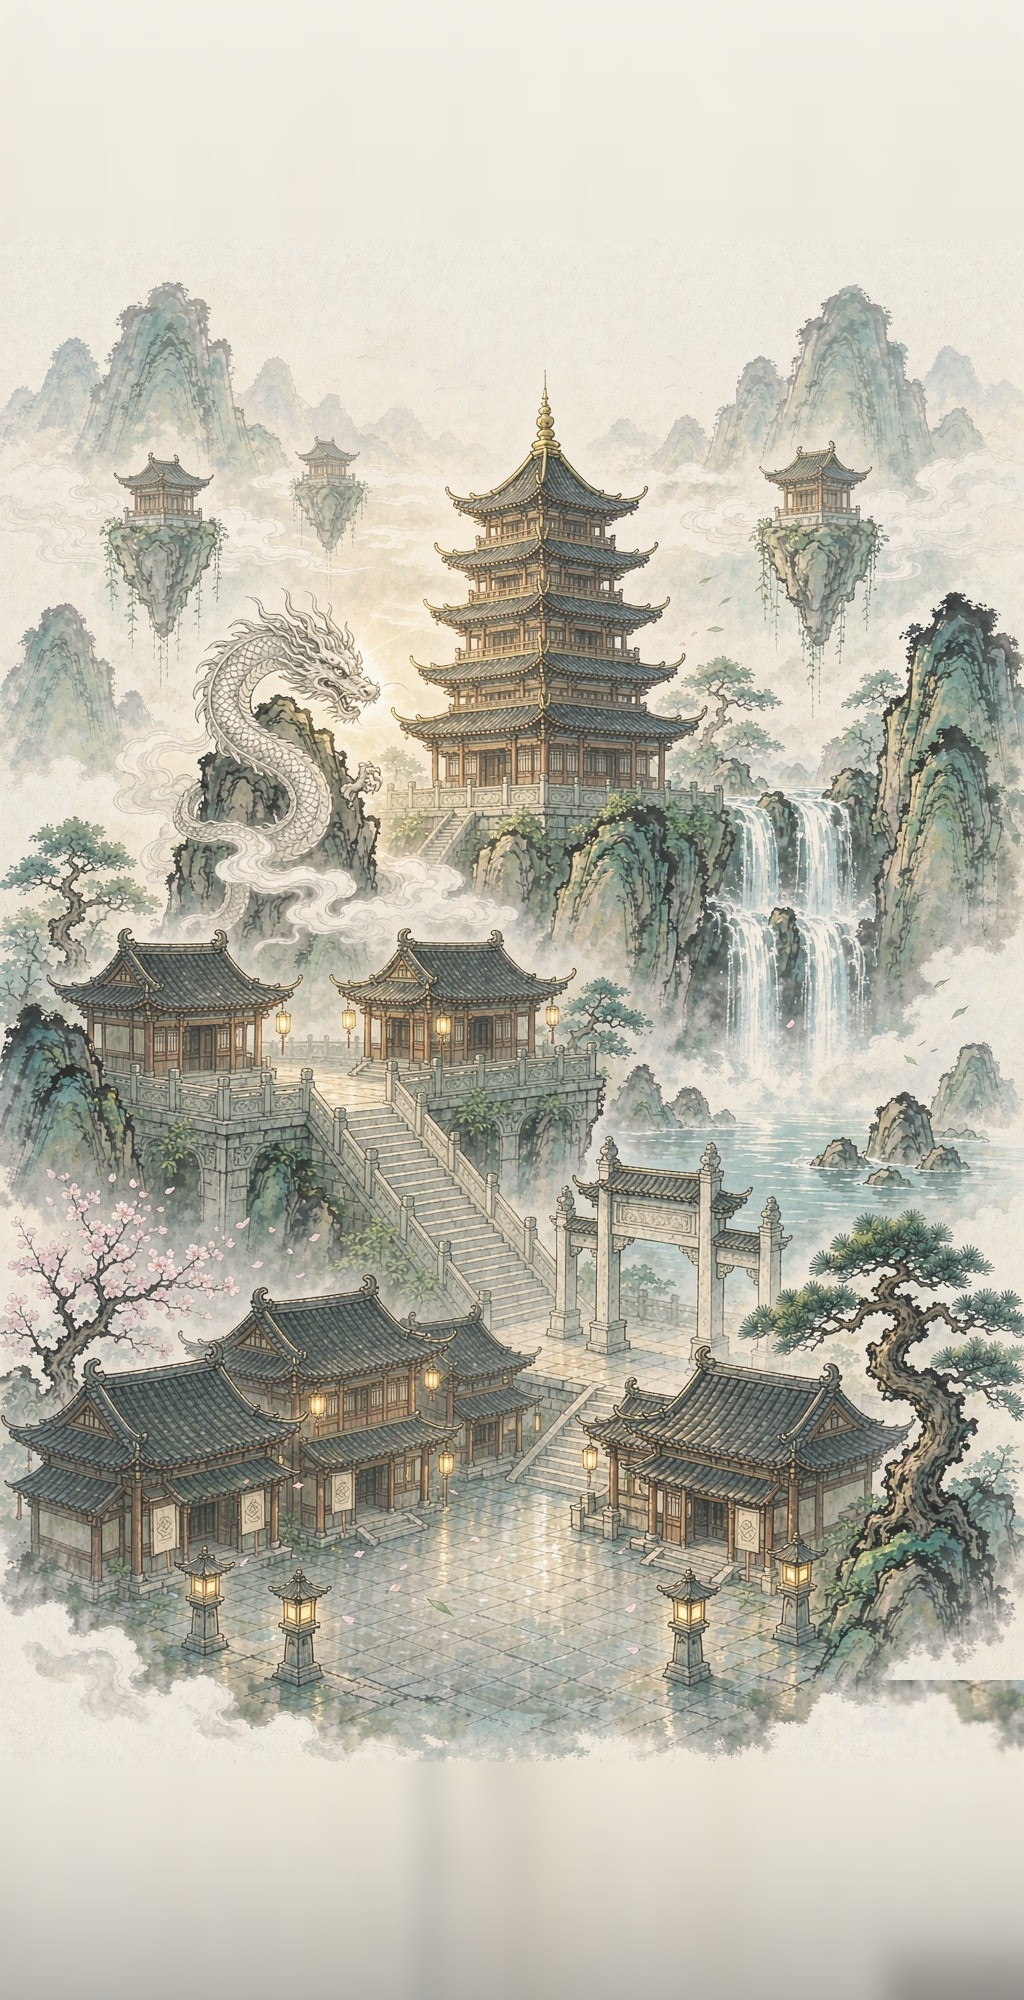
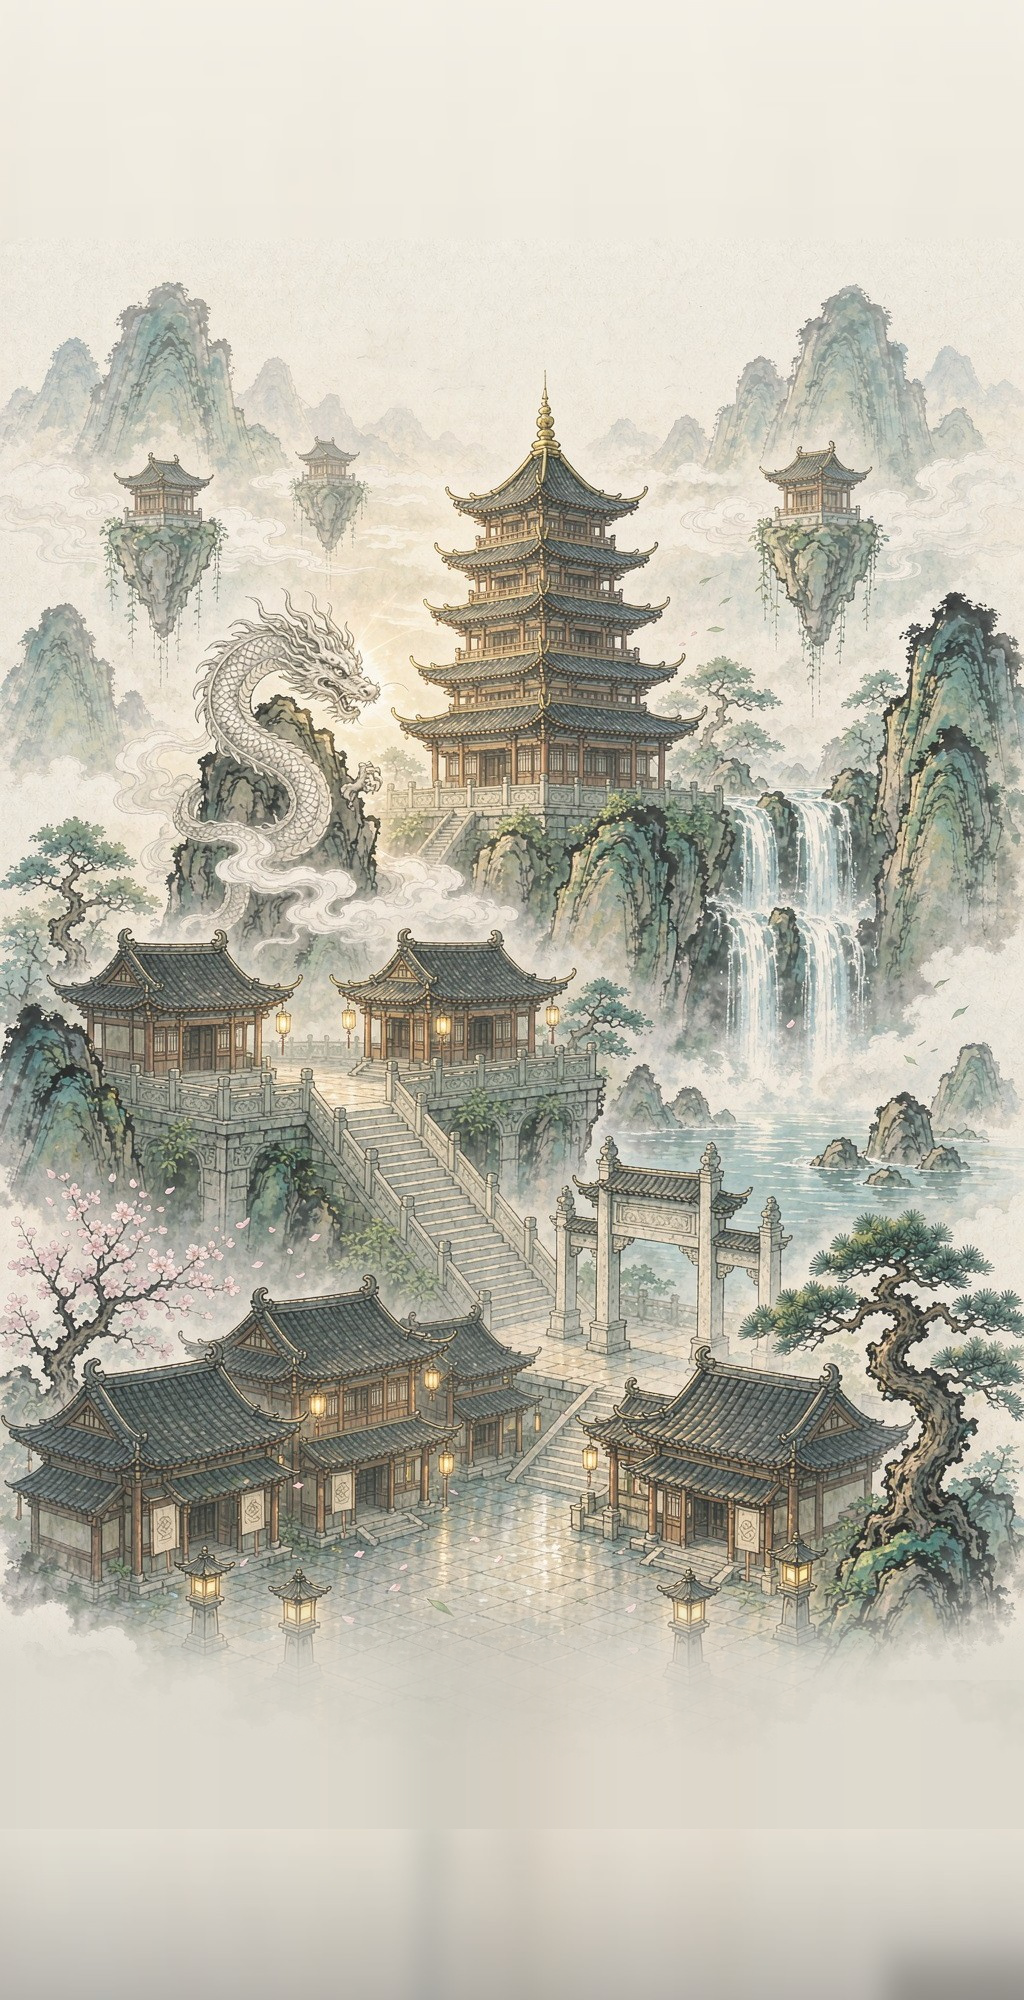
修复主城右下角背景断层
bg_ink.jpg 在 y≈1679 有一条贯穿全宽的水平硬边：上方是山石/地面的浅色雾化边缘，
下方直接接上做雾底时镜像出来的、更暗的画面，拼接处没有过渡。
游戏里看就是右下角（商店街、老树一带）出现直角断层，右侧山石处最明显。

修法（tools/fix_bg_seam.py，可重复执行）：
- 雾从接缝上方 110px 处开始涨，到接缝处已覆盖 92%，再往下 150px 完全成雾；
- 雾色取接缝下方 130~220px 的纯雾带，横向大半径模糊，只保留缓慢明暗起伏；
- 这样接缝以下的镜像重影一起被雾吃掉，不会出现交叉渐变那种对称重影。

实测接缝跳变像素占比 0.65 → 0.00（上下各 1px 均在 0.01 以内）。
背景图已重新导入；原图备份在 assets/city_ink/bg_ink.jpg.bak-seam。

顺带修掉 tools/auto_city_perf.sh 的安装静默失败：
adb install 的增量安装会先报错再回退，原来把输出丢掉、不校验版本号，
导致「验收时跑的其实是上一个包」（瀑布那次就因此误判）。现在装完会比对
APK 的 versionCode 与模拟器实装版本，不一致直接中止。

Changed region(s): [[0.0938, 0.806, 1.0, 0.899]]

diff --git a/tools/fix_bg_seam.py b/tools/fix_bg_seam.py
@@ -1,0 +1,83 @@
+#!/usr/bin/env python3
+"""主城背景图底部接缝修复。
+
+bg_ink.jpg 在 y≈1679 处有一条贯穿全宽的水平硬边：上方是山石/地面的浅色雾化边缘，
+下方接着一段更暗、带镜像重影的画面（做雾底时的镜像延展），两者直接拼接，
+在游戏里就是用户看到的「右下角断层」。
+
+做法：让雾从接缝上方一点点「涨上来」，把接缝和下方的镜像重影一起吃掉 ——
+不交叉混合（那会做出更怪的对称重影），而是按 y 归一化后整体溶进雾色。
+雾色取接缝下方 120px 处的纯雾带，横向大半径模糊，只保留缓慢明暗起伏。
+
+用法：
+  python3 tools/fix_bg_seam.py --dry    # 只输出 /tmp 预览
+  python3 tools/fix_bg_seam.py          # 写回原图（先备份 .bak-seam）
+"""
+import os
+import shutil
+import sys
+
+import numpy as np
+from PIL import Image, ImageFilter
+
+PROJ = os.path.dirname(os.path.dirname(os.path.abspath(__file__)))
+SRC = os.path.join(PROJ, "assets/city_ink/bg_ink.jpg")
+PREVIEW = "/tmp/bg_ink_seam_fixed.jpg"
+
+SEAM_Y = 1679
+FADE_UP = 110       # 接缝以上多少像素开始起雾
+FADE_DOWN = 150     # 接缝以下多少像素彻底成雾
+
+
+def smoothstep(t):
+    t = np.clip(t, 0.0, 1.0)
+    return t * t * (3.0 - 2.0 * t)
+
+
+def main():
+    dry = "--dry" in sys.argv
+    img = Image.open(SRC).convert("RGB")
+    a = np.asarray(img).astype(np.float32)
+    h, w, _ = a.shape
+
+    # 雾色参考：接缝下方「已经是纯雾」的窄带
+    ref = a[SEAM_Y + 130:SEAM_Y + 220].mean(axis=0)            # (w,3)
+    ref_img = Image.fromarray(ref.clip(0, 255).astype(np.uint8).reshape(1, w, 3))
+    ref_img = ref_img.filter(ImageFilter.GaussianBlur(24))
+    fog_row = np.asarray(ref_img).astype(np.float32).reshape(w, 3)
+
+    out = a.copy()
+    y_start = SEAM_Y - FADE_UP
+    y_end = SEAM_Y + FADE_DOWN
+    for y in range(max(0, y_start), min(h, y_end)):
+        if y <= SEAM_Y:
+            # 接缝以上：雾从 0 涨到 0.92，接缝处两侧都已几乎全被雾盖住
+            t = (y - y_start) / float(SEAM_Y - y_start)
+            alpha = 0.92 * smoothstep(t)
+        else:
+            # 接缝以下：0.92 → 1，把残留的镜像重影彻底压掉
+            t = (y - SEAM_Y) / float(y_end - SEAM_Y)
+            alpha = 0.92 + 0.08 * smoothstep(t)
+        out[y] = a[y] * (1.0 - alpha) + fog_row * alpha
+
+    res = Image.fromarray(out.clip(0, 255).astype(np.uint8))
+    if dry:
+        res.save(PREVIEW, quality=95)
+        print("dry-run ->", PREVIEW)
+    else:
+        bak = SRC + ".bak-seam"
+        if not os.path.exists(bak):
+            shutil.copyfile(SRC, bak)
+            print("备份原图 ->", bak)
+        res.save(SRC, quality=95, subsampling=0)
+        print("已写回", SRC)
+
+    g = np.asarray(res.convert("L"), dtype=np.int16)
+    d2 = np.abs(np.diff(g, axis=0))
+    print("接缝跳变占比（修复前 y=1678 为 0.65）:")
+    for y in (SEAM_Y - 1, SEAM_Y, SEAM_Y + 1):
+        print("  y=%d %.3f" % (y, (d2[y] > 8).mean()))
+
+
+if __name__ == "__main__":
+    main()
